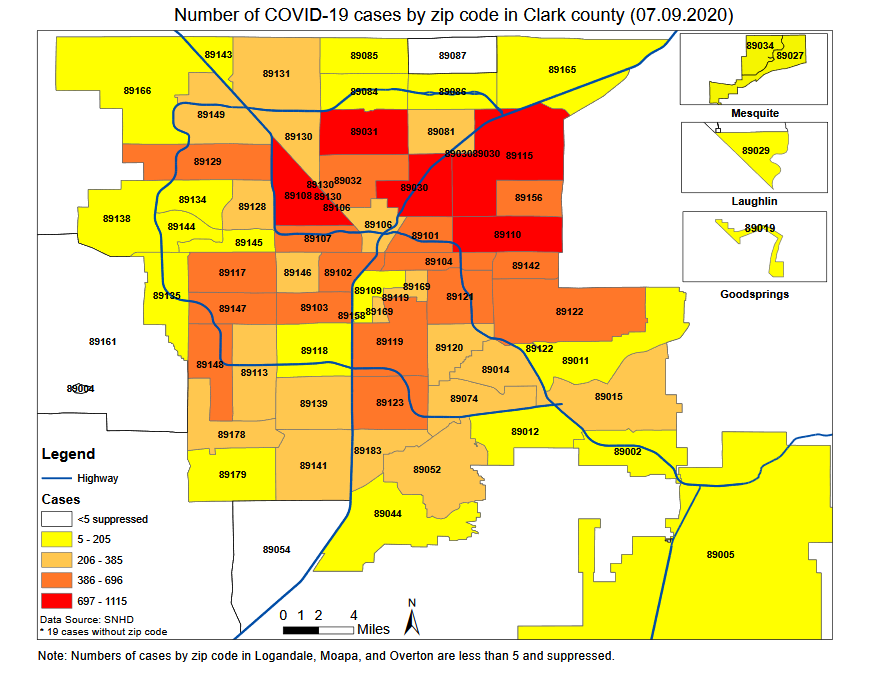
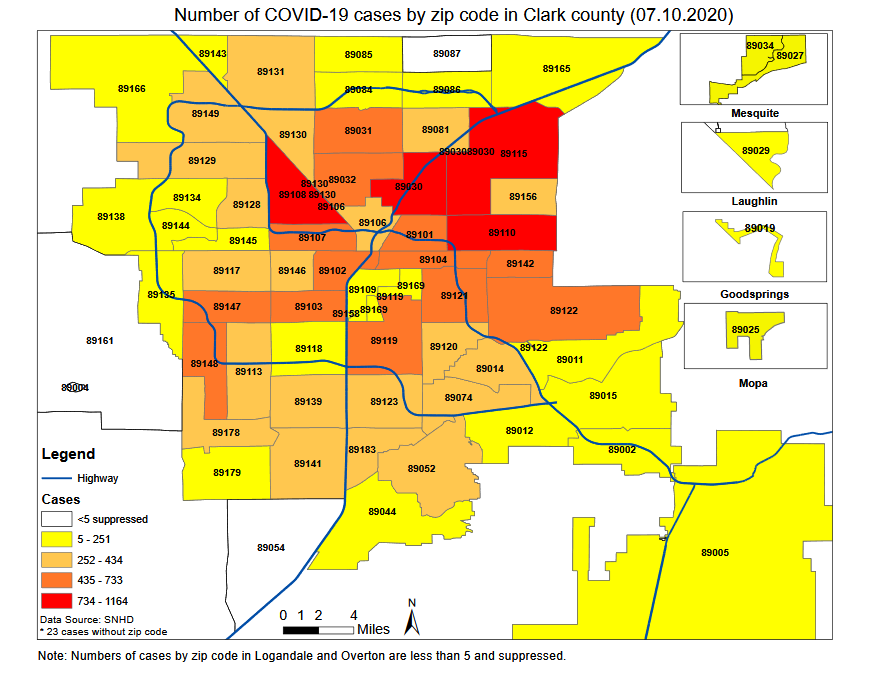
Oops Day 129

diff --git a/src/pages/clarkcounty.js b/src/pages/clarkcounty.js
@@ -144,6 +144,7 @@ class ClarkPage extends Component {
 				'7/07/20',
 				'7/08/20',
 				'7/09/20',
+				'7/10/20',
 			],
 			datasets: [
 				{
@@ -278,6 +279,7 @@ class ClarkPage extends Component {
 						20126,
 						20622,
 						21449,
+						22286,
 					],
 				},
 			],
@@ -413,6 +415,7 @@ class ClarkPage extends Component {
 				'7/07/20',
 				'7/08/20',
 				'7/09/20',
+				'7/10/20',
 			],
 			datasets: [
 				{
@@ -547,6 +550,7 @@ class ClarkPage extends Component {
 						472,
 						496,
 						827,
+						837,
 					],
 				},
 			],
@@ -662,6 +666,7 @@ class ClarkPage extends Component {
 				'7/07/20',
 				'7/08/20',
 				'7/09/20',
+				'7/10/20',
 			],
 			datasets: [
 				{
@@ -776,6 +781,7 @@ class ClarkPage extends Component {
 						2144,
 						2182,
 						2219,
+						2251,
 					],
 				},
 			],
@@ -890,6 +896,7 @@ class ClarkPage extends Component {
 				'7/07/20',
 				'7/08/20',
 				'7/09/20',
+				'7/10/20',
 			],
 			datasets: [
 				{
@@ -1004,6 +1011,7 @@ class ClarkPage extends Component {
 						36,
 						38,
 						37,
+						32,
 					],
 				},
 			],
@@ -1139,6 +1147,7 @@ class ClarkPage extends Component {
 				'7/07/20',
 				'7/08/20',
 				'7/09/20',
+				'7/10/20',
 			],
 			datasets: [
 				{
@@ -1272,6 +1281,7 @@ class ClarkPage extends Component {
 						454,
 						468,
 						473,
+						483,
 					],
 					backgroundColor: 'maroon',
 				},
@@ -1396,6 +1406,7 @@ class ClarkPage extends Component {
 				'7/07/20',
 				'7/08/20',
 				'7/09/20',
+				'7/10/20',
 			],
 			datasets: [
 				{
@@ -1518,6 +1529,7 @@ class ClarkPage extends Component {
 						4,
 						14,
 						5,
+						10,
 					],
 				},
 			],
@@ -1653,6 +1665,7 @@ class ClarkPage extends Component {
 				'7/07/20',
 				'7/08/20',
 				'7/09/20',
+				'7/10/20',
 			],
 			datasets: [
 				{
@@ -1775,19 +1788,20 @@ class ClarkPage extends Component {
 						10.9,
 						11.3,
 						12.0,
-						12.4,
-						12.7,
+						12.5,
+						12.8,
+						13.3,
 						13.3,
 						13.3,
 						13.3,
 						13.2,
-						12.9,
-						12.9,
-						13.6,
-						13.5,
-						13.7,
-						14.5,
-						14.8,
+						13.1,
+						13.8,
+						14.0,
+						14.3,
+						14.7,
+						14.9,
+						17.5,
 					],
 				},
 				{
@@ -1863,6 +1877,7 @@ class ClarkPage extends Component {
 						null,
 						null,
 						null,
+						6.9,
 						6.9,
 						6.9,
 						6.9,
@@ -2063,6 +2078,7 @@ class ClarkPage extends Component {
 						3.9,
 						3.9,
 						3.9,
+						3.9,
 					],
 				},
 			],
@@ -2073,7 +2089,7 @@ class ClarkPage extends Component {
 			datasets: [
 				{
 					label: 'Age of Cases',
-					data: [388, 1397, 2587, 10259, 4346, 2461],
+					data: [398, 1451, 2720, 10670, 4516, 2514],
 					backgroundColor: [
 						'rgb(54, 162, 235)', //blue
 						'rgb(255, 99, 132)', //salmon
@@ -2091,7 +2107,7 @@ class ClarkPage extends Component {
 			datasets: [
 				{
 					label: 'Sex',
-					data: [10954, 10316, 179],
+					data: [11367, 10730, 189],
 					backgroundColor: [
 						'rgb(255, 99, 132)',
 						'rgb(54, 162, 235)',
@@ -2133,7 +2149,7 @@ class ClarkPage extends Component {
 											</div>
 										</div>
 										<div className='card-value pt-4'>
-											<h1>21,449</h1>
+											<h1>22,286</h1>
 										</div>
 									</div>
 								</div>
@@ -2145,7 +2161,7 @@ class ClarkPage extends Component {
 											</div>
 										</div>
 										<div className='card-value pt-4'>
-											<h1>2,219</h1>
+											<h1>2,251</h1>
 										</div>
 									</div>
 								</div>
@@ -2157,7 +2173,7 @@ class ClarkPage extends Component {
 											</div>
 										</div>
 										<div className='card-value pt-4'>
-											<h1>65.8%</h1>
+											<h1>66.7%</h1>
 										</div>
 									</div>
 								</div>
@@ -2169,7 +2185,7 @@ class ClarkPage extends Component {
 											</div>
 										</div>
 										<div className='card-value pt-4'>
-											<h1>473</h1>
+											<h1>483</h1>
 										</div>
 									</div>
 								</div>

diff --git a/src/pages/nevada.js b/src/pages/nevada.js
@@ -139,6 +139,7 @@ class NevadaPage extends Component {
 				'7/07/20',
 				'7/08/20',
 				'7/09/20',
+				'7/10/20',
 			],
 			datasets: [
 				{
@@ -272,6 +273,7 @@ class NevadaPage extends Component {
 						24301,
 						24904,
 						25908,
+						26838,
 					],
 					fill: false, // Don't fill area under the line
 					backgroundColor: '#933A16', // Line color
@@ -408,6 +410,7 @@ class NevadaPage extends Component {
 				'7/07/20',
 				'7/08/20',
 				'7/09/20',
+				'7/10/20',
 			],
 			datasets: [
 				{
@@ -542,6 +545,7 @@ class NevadaPage extends Component {
 						516,
 						603,
 						1004,
+						930,
 					],
 					fill: false, // Don't fill area under the line
 					backgroundColor: '#933A16', // Bar color
@@ -678,6 +682,7 @@ class NevadaPage extends Component {
 				'7/07/20',
 				'7/08/20',
 				'7/09/20',
+				'7/10/20',
 			],
 			datasets: [
 				{
@@ -799,18 +804,19 @@ class NevadaPage extends Component {
 						509,
 						515,
 						521,
-						525,
-						530,
-						534,
-						541,
-						545,
-						555,
-						560,
-						564,
+						526,
+						531,
+						535,
+						543,
+						548,
+						558,
+						563,
 						567,
-						575,
-						578,
-						578,
+						573,
+						582,
+						586,
+						589,
+						590,
 					],
 					backgroundColor: 'maroon',
 				},
@@ -935,6 +941,7 @@ class NevadaPage extends Component {
 				'7/07/20',
 				'7/08/20',
 				'7/09/20',
+				'7/10/20',
 			],
 			datasets: [
 				{
@@ -1045,18 +1052,19 @@ class NevadaPage extends Component {
 						2,
 						6,
 						6,
-						4,
+						5,
 						5,
 						4,
-						7,
-						4,
+						8,
+						5,
 						10,
 						5,
 						4,
+						6,
+						9,
+						4,
 						3,
-						8,
-						3,
-						0,
+						1,
 					],
 				},
 			],
@@ -1172,6 +1180,7 @@ class NevadaPage extends Component {
 				'7/07/20',
 				'7/08/20',
 				'7/09/20',
+				'7/10/20',
 			],
 			datasets: [
 				{
@@ -1288,6 +1297,7 @@ class NevadaPage extends Component {
 						7.5,
 						7.6,
 						7.7,
+						7.9,
 					],
 				},
 				{
@@ -1404,6 +1414,7 @@ class NevadaPage extends Component {
 						13.1,
 						11.6,
 						12.7,
+						13.4,
 					],
 				},
 				{
@@ -1459,6 +1470,7 @@ class NevadaPage extends Component {
 						null,
 						null,
 						null,
+						10.4,
 						10.4,
 						10.4,
 						10.4,
@@ -1638,6 +1650,7 @@ class NevadaPage extends Component {
 						6.0,
 						6.0,
 						6.0,
+						6.0,
 					],
 				},
 			],
@@ -1697,7 +1710,7 @@ class NevadaPage extends Component {
 										</div>
 									</div>
 									<div className='card-value pt-4'>
-										<h1>25,908</h1>
+										<h1>26,838</h1>
 									</div>
 								</div>
 							</div>
@@ -1709,7 +1722,7 @@ class NevadaPage extends Component {
 										</div>
 									</div>
 									<div className='card-value pt-4'>
-										<h1>578</h1>
+										<h1>590</h1>
 									</div>
 								</div>
 							</div>
